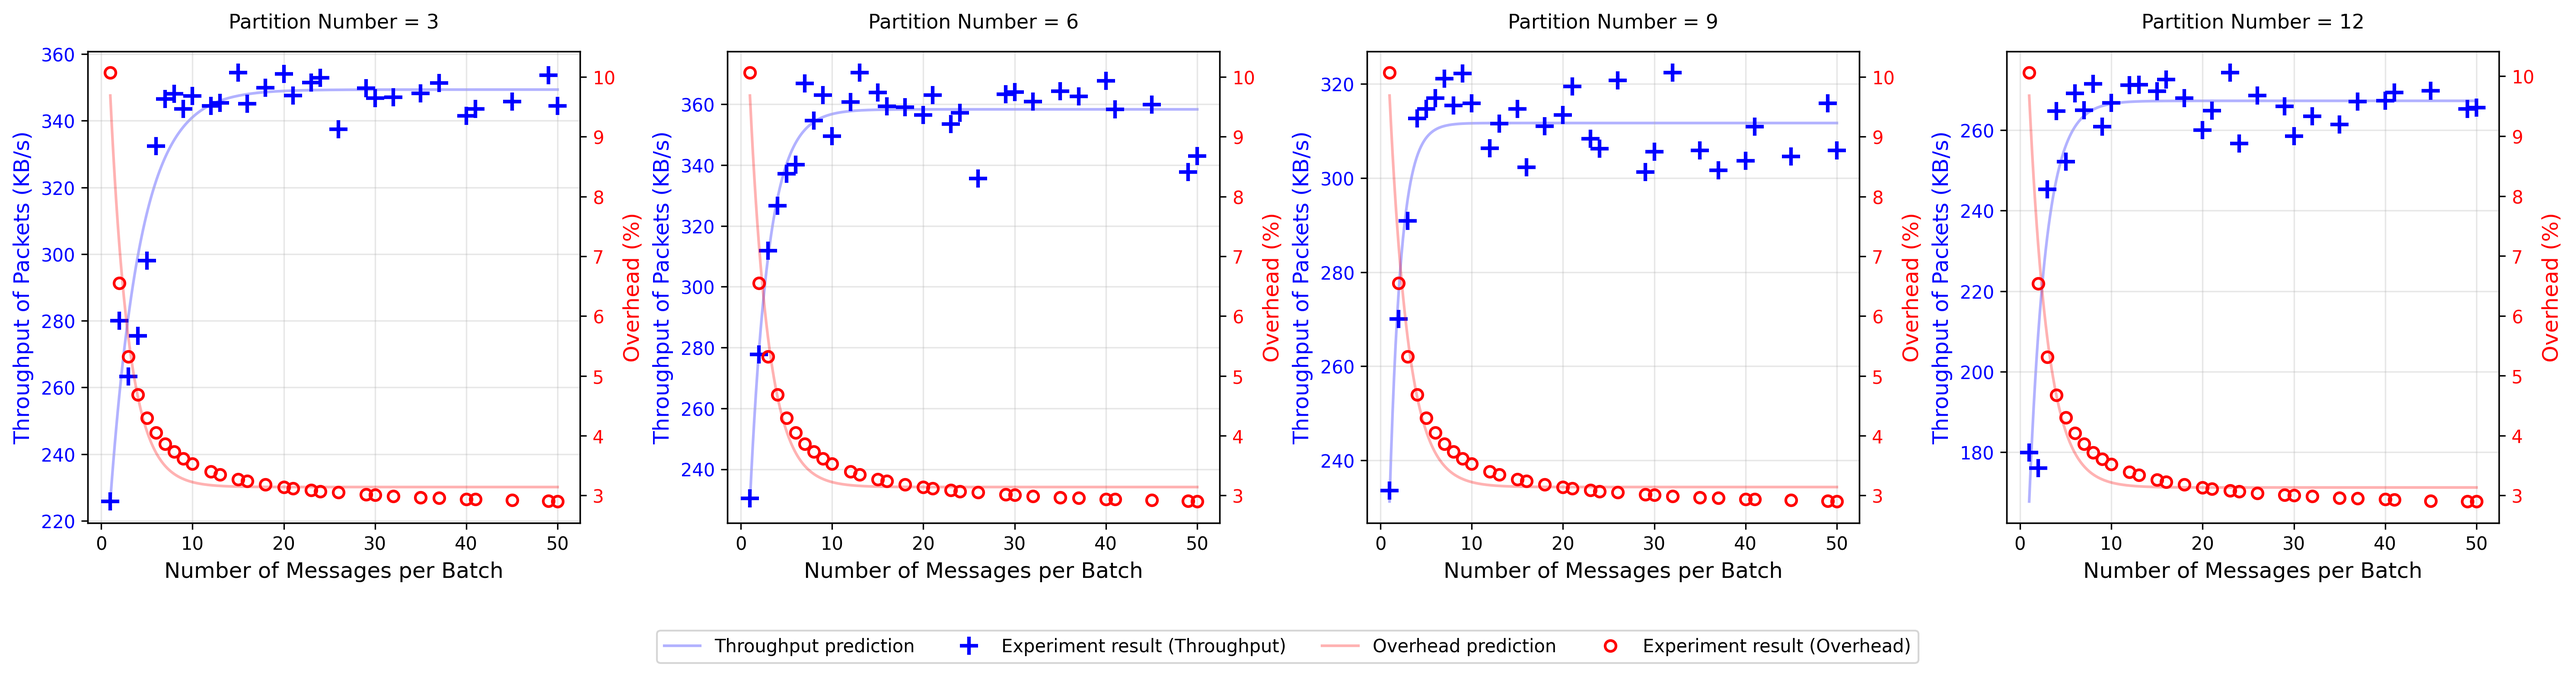
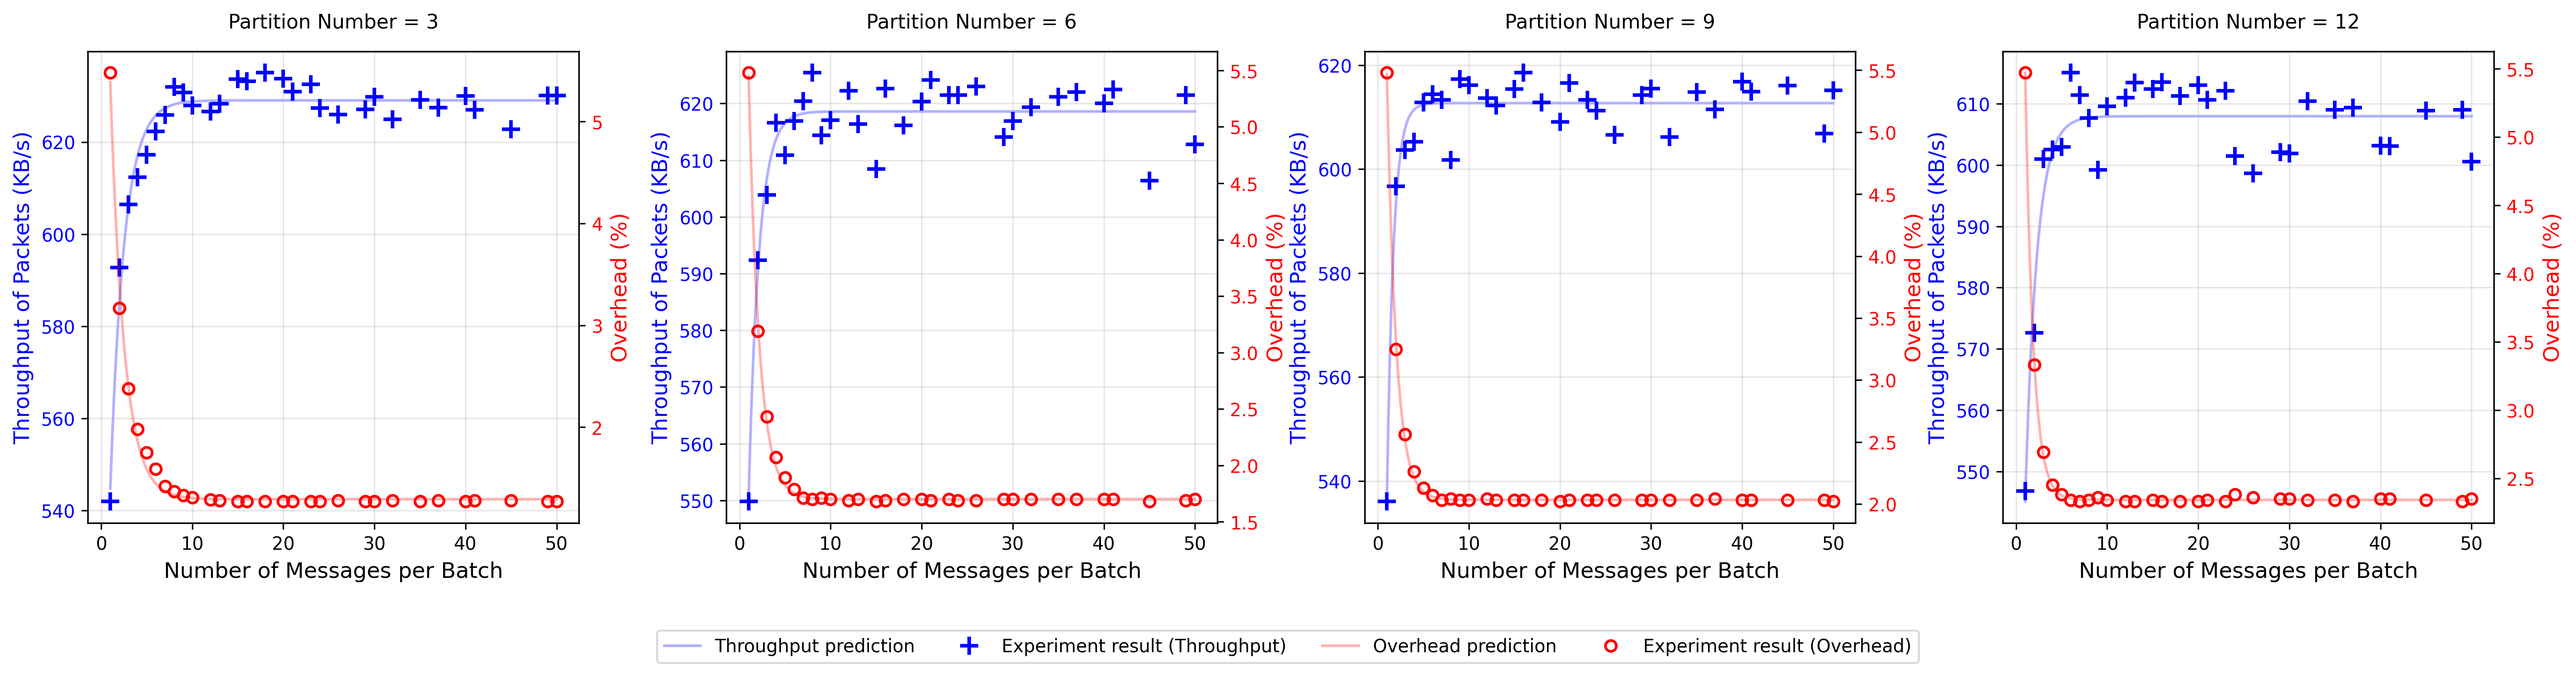
Statistica calcolate con JMX

diff --git a/scripts/update_stats_with_jmx.py b/scripts/update_stats_with_jmx.py
@@ -1,0 +1,101 @@
+import sys
+import json
+from pathlib import Path
+from jmxquery import JMXConnection, JMXQuery
+
+
+def collect_jmx_metrics(topic_name):
+    """Raccoglie byte totali IN dai broker per il topic"""
+    brokers = [
+        {"host": "localhost", "port": 9999}, # Broker 1
+        {"host": "localhost", "port": 10000}, # Broker 2
+        {"host": "localhost", "port": 10001}, # Broker 3
+    ]
+    
+    total_bytes_in = 0 
+    
+    for broker in brokers:
+        try:
+            # Connessione JMX
+            jmx_url = f"service:jmx:rmi:///jndi/rmi://{broker['host']}:{broker['port']}/jmxrmi"
+            jmx_conn = JMXConnection(jmx_url)
+            
+            query = JMXQuery(
+                f"kafka.server:type=BrokerTopicMetrics,name=BytesInPerSec,topic={topic_name}",
+                attribute="Count"
+            )
+            
+            metrics = jmx_conn.query([query])
+            
+            if metrics and metrics[0].value:
+                total_bytes_in += float(metrics[0].value)
+                
+        except Exception as e:
+            pass
+    
+    return int(total_bytes_in)
+
+
+def update_producer_stats(run_id, topic_name):
+    """Aggiorna i file stats dei producer"""
+    stats_dir = Path("./data/stats")
+    producer_files = list(stats_dir.glob(f"*_{run_id}_stats.json"))
+    
+    if not producer_files:
+        return False
+    
+    # Raccoglie byte totali dai broker
+    total_bytes_from_brokers = collect_jmx_metrics(topic_name)
+    
+    if total_bytes_from_brokers == 0:
+        return False
+    
+    # Raccoglie payload totale dai producer
+    total_payload_bytes = 0
+    total_transmission_time = 0
+    
+    for pf in producer_files:
+        try:
+            with open(pf) as f:
+                data = json.load(f)
+                total_payload_bytes += data.get("payload_bytes", 0)
+                # Usa il tempo massimo tra i producer
+                total_transmission_time = max(
+                    total_transmission_time,
+                    data.get("transmission_time_seconds", 0)
+                )
+        except Exception:
+            pass
+    
+    # Calcola overhead e throughput
+    kafka_overhead_bytes = total_bytes_from_brokers - total_payload_bytes
+    kafka_total_bytes = total_bytes_from_brokers
+    overhead_percentage = (kafka_overhead_bytes / kafka_total_bytes * 100) if kafka_total_bytes > 0 else 0
+    throughput_kbps = (kafka_total_bytes / 1024) / total_transmission_time if total_transmission_time > 0 else 0
+    
+    # Aggiorna ogni file producer stats
+    for pf in producer_files:
+        try:
+            with open(pf, 'r') as f:
+                data = json.load(f)
+            
+            data["kafka_overhead_bytes"] = kafka_overhead_bytes
+            data["kafka_total_bytes"] = kafka_total_bytes
+            data["throughput_kbps"] = round(throughput_kbps, 2)
+            data["overhead_percentage"] = round(overhead_percentage, 2)
+            
+            with open(pf, 'w') as f:
+                json.dump(data, f, indent=2)
+                
+        except Exception:
+            pass
+    
+    return True
+
+
+if __name__ == "__main__":
+    # Esegue aggiornamento se forniti run_id e topic_name
+    # Es: python scripts/update_stats_with_jmx_overhead.py "$RUN_ID" "$TOPIC_NAME" 
+    if len(sys.argv) == 3:
+        update_producer_stats(sys.argv[1], sys.argv[2])
+    

diff --git a/experiements/network_bandwidth_evaluation/plot_network_bandwidth_evaluation.py b/experiements/network_bandwidth_evaluation/plot_network_bandwidth_evaluation.py
@@ -32,14 +32,13 @@ def main():
                 
                 if batch_size not in data_by_batch:
                     data_by_batch[batch_size] = {
-                        'kafka_total_bytes': 0,
-                        'transmission_time_seconds': 0,
+                        'throughput_kbps': [],
                         'overhead_percentage': []
                     }
-                
-                data_by_batch[batch_size]['kafka_total_bytes'] += data['kafka_total_bytes']
-                data_by_batch[batch_size]['transmission_time_seconds'] += data['transmission_time_seconds']
+
+                data_by_batch[batch_size]['throughput_kbps'].append(data['throughput_kbps'])
                 data_by_batch[batch_size]['overhead_percentage'].append(data['overhead_percentage'])
+
         
         # Calcola throughput e overhead medi per batch size
         batch_sizes = []
@@ -51,9 +50,7 @@ def main():
             stats = data_by_batch[batch_size]
             
             # Throughput medio in KB/s
-            total_kb = stats['kafka_total_bytes'] / 1024
-            total_time = stats['transmission_time_seconds']
-            throughput = total_kb / total_time
+            throughput = sum(stats['throughput_kbps']) / len(stats['throughput_kbps'])
             
             # Overhead medio in %
             overhead = sum(stats['overhead_percentage']) / len(stats['overhead_percentage'])
@@ -68,7 +65,6 @@ def main():
         throughputs = np.array(throughputs)
         overheads = np.array(overheads)
         
-        #batch_smooth = np.linspace(min(batch_sizes), max(batch_sizes), 300)
         batch_smooth = np.linspace(1, max(batch_sizes), 300)
         
         # Throughput prediction: funzione esponenziale saturante T(x) = c - a * exp(-b*x)

diff --git a/producer/producer.py b/producer/producer.py
@@ -212,16 +212,6 @@ def main():
         total_payload_bytes = sum(r['message_size_bytes'] for r in delivery_records)
         unique_batches = len(set(r['send_batch_id'] for r in delivery_records))
         
-        # Overhead Kafka da documentazione ufficiale
-        record_overhead = num_messages * 34 # header per record
-        batch_overhead = unique_batches * 61 # header per batch
-        request_overhead = unique_batches * 40 # header per richiesta
-        kafka_overhead = record_overhead + batch_overhead + request_overhead # totale overhead Kafka in byte
-        
-        kafka_total = total_payload_bytes + kafka_overhead # totale byte inviati a Kafka
-        throughput_kbps = (kafka_total / 1024) / total_time # in KB/s
-        overhead_pct = (kafka_overhead / kafka_total) * 100
-        
         stats = {
             "run_id": run_id,
             "producer_name": producer_name,
@@ -229,11 +219,12 @@ def main():
             "num_messages": num_messages,
             "num_batches": unique_batches,
             "payload_bytes": total_payload_bytes,
-            "kafka_overhead_bytes": kafka_overhead,
-            "kafka_total_bytes": kafka_total,
             "transmission_time_seconds": round(total_time, 2),
-            "throughput_kbps": round(throughput_kbps, 2),
-            "overhead_percentage": round(overhead_pct, 2)
+            # Overhead sarà aggiunto dopo da script esterno
+            "kafka_overhead_bytes": None,
+            "kafka_total_bytes": None,
+            "throughput_kbps": None,
+            "overhead_percentage": None
         }
         
         stats_path = stats_dir / f"{producer_name}_{run_id}_stats.json"
